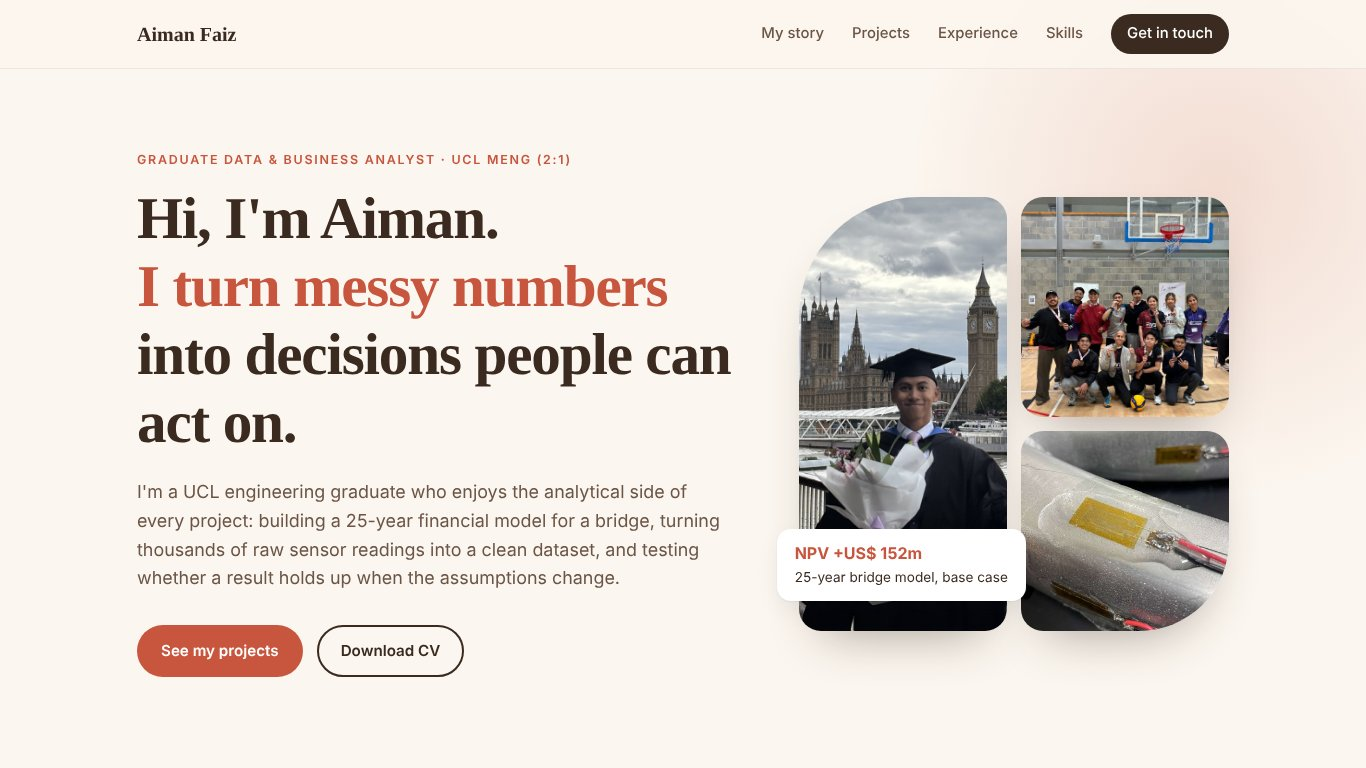
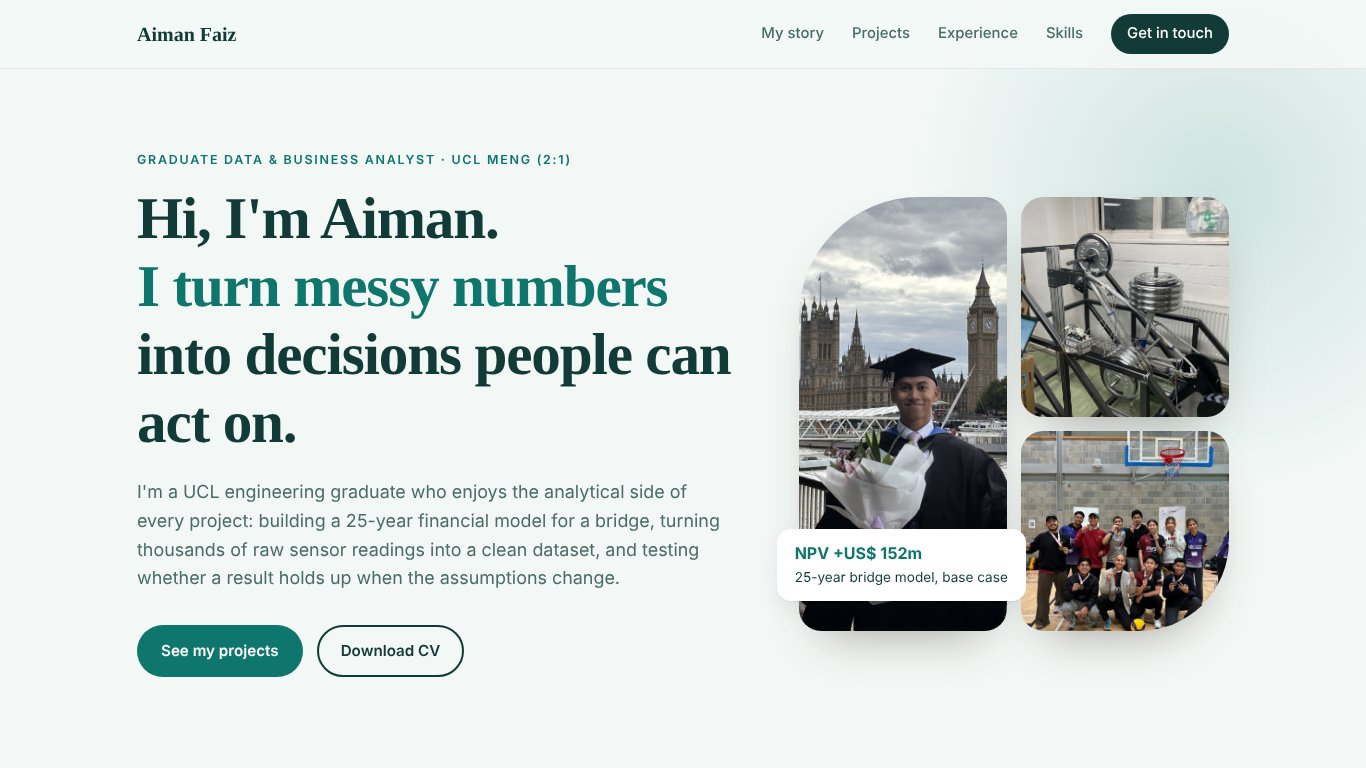
Add files via upload

diff --git a/style.css b/style.css
@@ -302,3 +302,18 @@ h2 { font-size: clamp(1.9rem, 3.6vw, 2.7rem); }
 .sql-card .k { color: #7DD3FC; font-weight: 500; } .sql-card .f { color: #FCD34D; } .sql-card .s { color: #86EFAC; } .sql-card .c { color: #94A3B8; font-style: italic; }
 .sql-card__note { margin-top: 12px; font-size: .78rem; color: #94A3B8; border-top: 1px solid rgba(255,255,255,.1); padding-top: 10px; }
 
+
+/* ---------- Role theme ---------- */
+:root {
+  --cream: #F3F8F6; --cream-2: #E6F1EC;
+  --terracotta: #0F766E; --terracotta-dark: #115E59;
+  --brown: #123B37; --brown-soft: #4A6B66;
+  --blue: #0F766E; --blue-soft: #E3F2EE; --eng-bg: #F2F7F6;
+}
+.nav { background: rgba(243,248,246,.88); }
+.hero::before { background: radial-gradient(circle, #0F766E29, transparent 70%); }
+.eng { background-image: linear-gradient(rgba(15,118,110,.05) 1px, transparent 1px), linear-gradient(90deg, rgba(15,118,110,.05) 1px, transparent 1px); }
+.card__icon { background-color: #E3F2EE; background-image: linear-gradient(rgba(15,118,110,.08) 1px, transparent 1px), linear-gradient(90deg, rgba(15,118,110,.08) 1px, transparent 1px); }
+.timeline::before { background: linear-gradient(#0F766E, #0F766E26); }
+.footer { background: #0E2F2C; }
+.ph { background: #E6F1EC; }

diff --git a/index.html b/index.html
@@ -47,8 +47,8 @@
         </div>
         <div class="hero__collage reveal">
           <figure class="c1"><img src="assets/img/graduation.jpg" alt="Aiman in graduation gown on the South Bank with Big Ben behind" style="object-position:40% 50%"></figure>
-          <figure class="c2"><img src="assets/img/volleyball-1.jpg" alt="KUGEM Volleyball Club team photo"></figure>
-          <figure class="c3"><img src="assets/img/bike-gauge.jpg" alt="Strain gauge I bonded and soldered onto the bike frame"></figure>
+          <figure class="c2"><img src="assets/img/bike-rig.jpg" alt="Bike frame under test, the source of my strain data"></figure>
+          <figure class="c3"><img src="assets/img/volleyball-1.jpg" alt="KUGEM Volleyball Club team photo"></figure>
           <div class="hero__badge">
             <strong>NPV +US$ 152m</strong>
             <span>25-year bridge model, base case</span>
